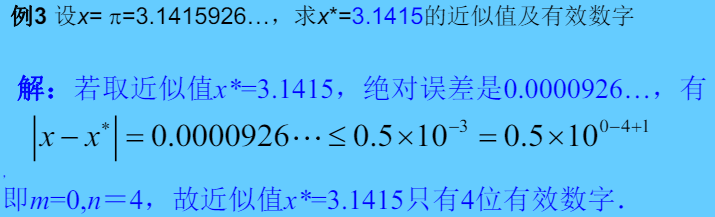
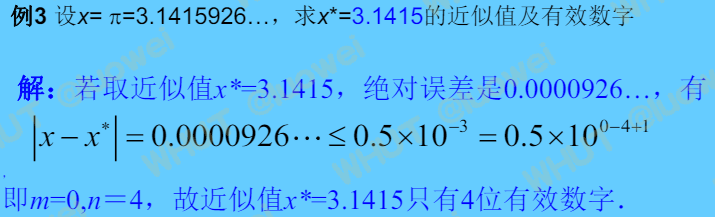
图片添加水印

diff --git a/add_mark_toImage.py b/add_mark_toImage.py
@@ -1,0 +1,51 @@
+'''
+Author       : luoweiWHUT 1615108374@qq.com
+Date         : 2024-05-28 12:20:44
+LastEditors  : luoweiWHUT 1615108374@qq.com
+LastEditTime : 2024-05-28 12:55:27
+FilePath     : \blogs\add_mark_toImage.py
+Description  : 
+Copyright (c) 2024 by luoweiWHUT email: 1615108374@qq.com, All Rights Reserved.
+'''
+import os
+from watermarker.marker import add_mark
+
+def load_watermarked_files(record_file):
+    if not os.path.exists(record_file):
+        return set()
+    with open(record_file, 'r', encoding='gbk') as f:
+        return set(f.read().splitlines())
+
+def save_watermarked_files(record_file, filenames):
+    # 清空记录文件内容
+    open(record_file, 'w').close()
+    with open(record_file, 'a',encoding='gbk') as f:
+        for filename in filenames:
+            f.write(filename + '\n')
+
+def add_watermark_to_images(directory, watermark_text, record_file):
+    # 加载已添加水印的文件列表
+    watermarked_files = load_watermarked_files(record_file)
+    
+    # 获取目录中的所有文件和文件夹
+    for root, dirs, files in os.walk(directory):
+        for file in files:
+            # 检查文件是否为图片文件（可以根据需要添加更多图片格式的判断条件）
+            if file.endswith(('.png', '.jpg', '.jpeg', '.gif', '.bmp')):
+                # 构造完整的文件路径
+                file_path = os.path.join(root, file)
+                # 检查图片是否已经添加水印
+                if file_path not in watermarked_files:
+                    # 如果图片没有添加水印，则添加水印
+                    add_mark(file_path, watermark_text,out=root)
+                    # 记录已添加水印的文件名
+                    watermarked_files.add(file_path)
+
+    # 保存已添加水印的文件列表
+    save_watermarked_files(record_file, watermarked_files)
+
+# 定义记录文件路径
+watermarked_record_file = "watermarked_files.txt"
+# 调用函数并传入路径和水印内容
+add_watermark_to_images(r"数值分析", "WHUT @luowei",watermarked_record_file)
+
